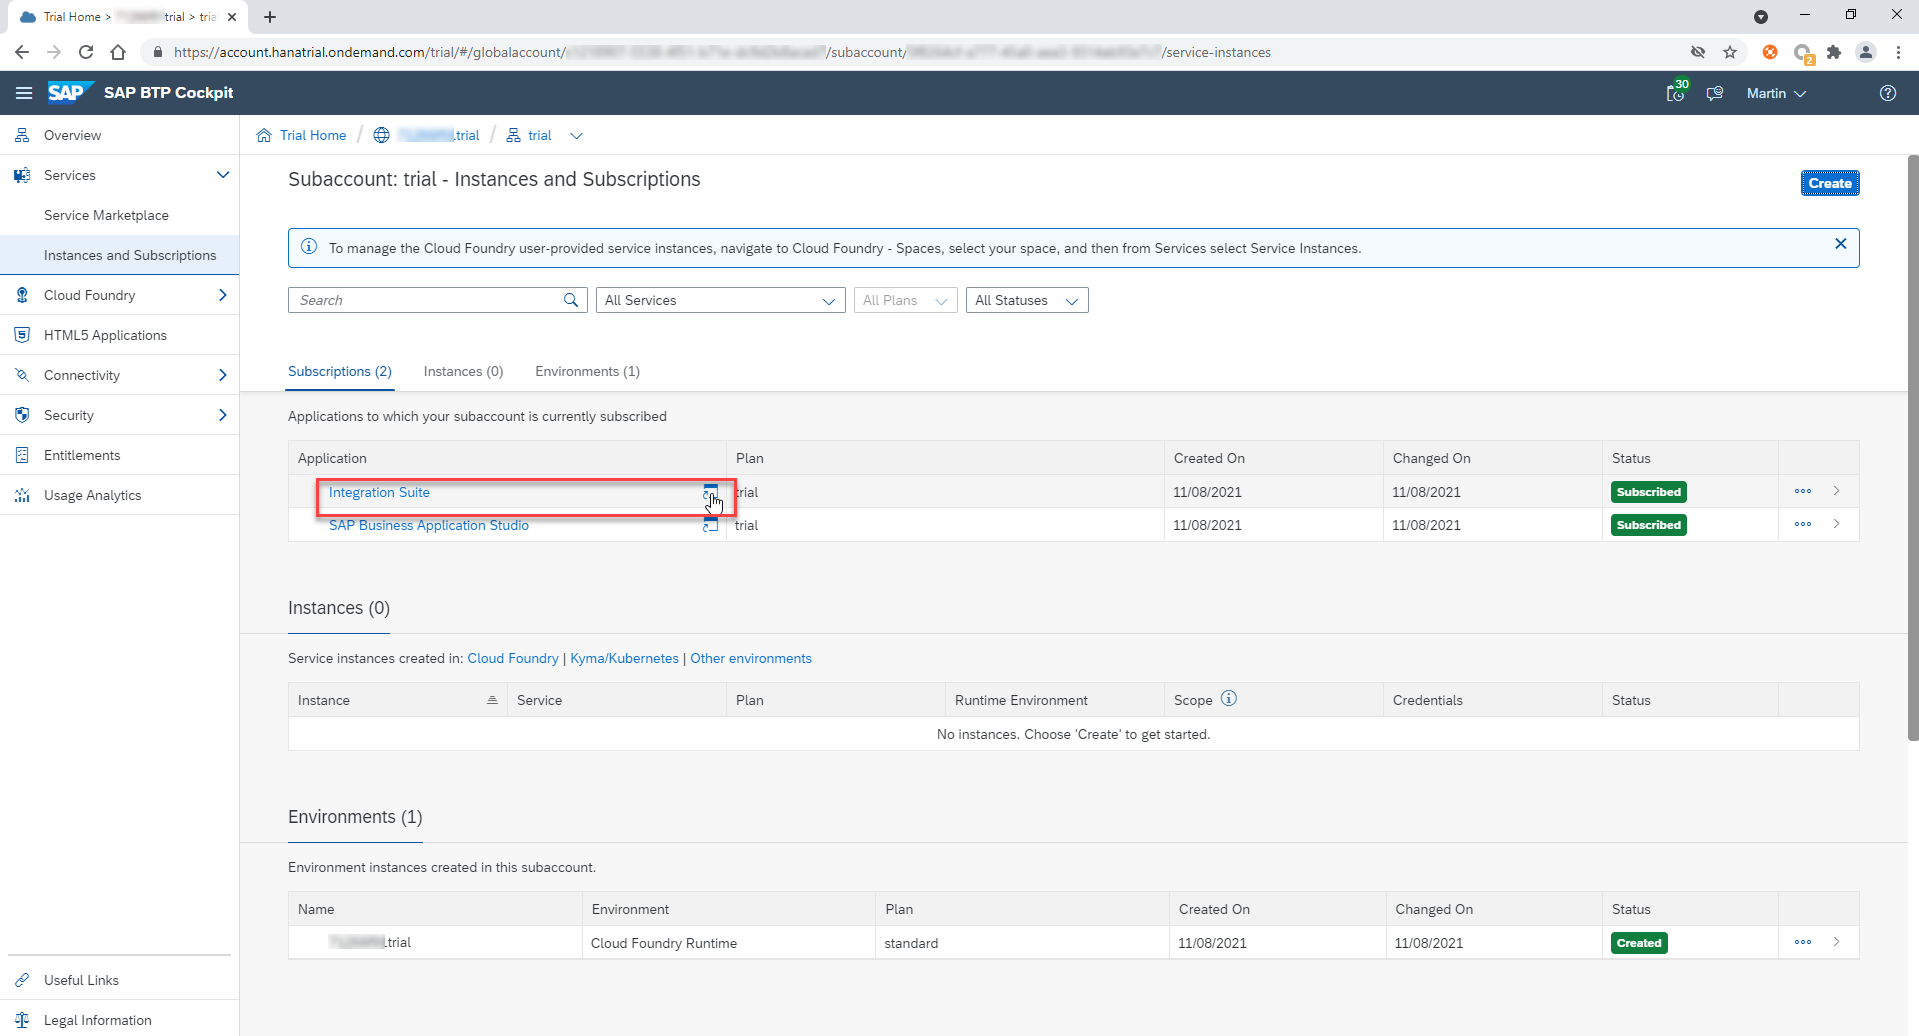
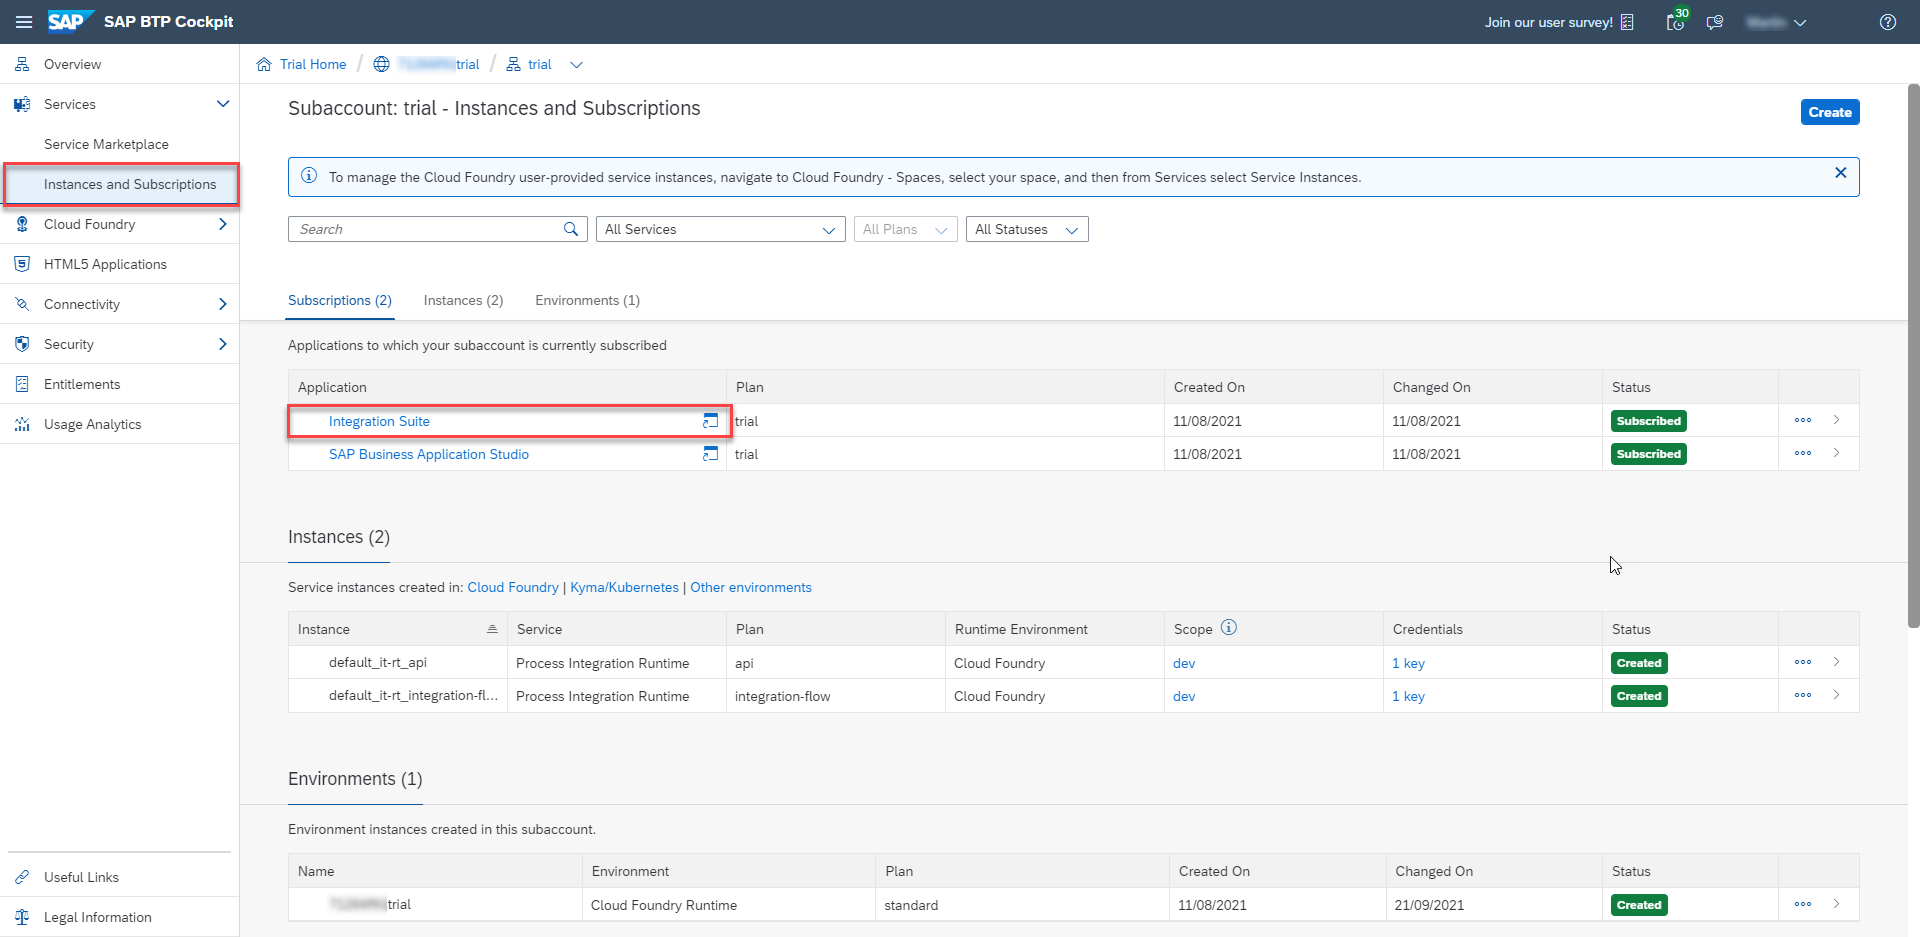
Minor changes

diff --git a/Week2/Unit3/README.md b/Week2/Unit3/README.md
@@ -17,7 +17,7 @@ From a service perspective, you'll be using a number of SAP BTP and Microsoft se
 
 ## Step 1 - Setup SAP Cloud Integration 
 
-[Week2 Unit3 - Step 1](Week2/Unit3/README.md#Step-1---Lorem-Ipsum)
+[Week2 Unit3 - Step 1](Week2/Unit3/README.md#Step-1---Setup-SAP-Cloud-Integration)
 
 Welcome to the third unit of Week 2. In the comprehensive exercise of this unit, you will build up an end-to-end scenario, which allows you to store billing documents from S/4HANA Cloud to your SharePoint team site. To achieve this scenario, you will make use of different SAP Integration Suite components like Cloud Integration and Open Connectors, as well as Microsoft tools like SharePoint and Azure.
 
@@ -93,12 +93,12 @@ Rename your document **welcome.docx** and click on **Rename**. The file name wil
 ![Microsoft SharePoint](./images/mss_0310.png)
 
 
-With this a SharePoint team site named General has been successfully created. 
+Congratulations! By finishing the first step, your SharePoint team site named General has been successfully created. 
 
 
 ## Step 2 - Create an Azure AD app registration
 
-[Week2 Unit3 - Step 2](Week2/Unit3/README.md#Step-2---Lorem-Ipsum)
+[Week2 Unit3 - Step 2](Week2/Unit3/README.md#Step-2---Create-an-Azure-AD-app-registration)
 
 For using the SharePoint connector from Open Connectors capability of SAP Business Technology Platform Integration Suite, you will need an OAuth key and Secret to connect to your SharePoint account. In this step, configurations required to connect to your SharePoint Online account are covered.
 
@@ -189,12 +189,12 @@ For connecting to your SharePoint Online account from SAP BTP Open Connectors, a
 ![Azure AD](./images/aar_0230.png)
 
 
-You have successfully configured your Azure AD for the usage with SAP Business Technology Platform Open Connectors. 
+Congratulations! You've successfully created an App Registration within Azure Active Directory, which contains the required permissions, to interact with your SharePoint teams site. 
 
 
 ## Step 3 - Configure Integration Suite Open Connectors
 
-[Week2 Unit1 - Step 5](Week2/Unit1/README.md#Step-5---Lorem-Ipsum)
+[Week2 Unit3 - Step 3](Week2/Unit3/README.md#Step-3---Configure-Integration-Suite-Open-Connectors)
 
 ### 3.1. Create an Open Connectors SharePoint connector
 
@@ -278,12 +278,12 @@ In the **Curl** subsection, please copy the values in the Authorization header, 
 ![Open Connectors](./images/ioc_0220.png)
 
 
-With this you have successfully created a SharePoint connector instance from Open Connectors capability of SAP Integration Suite. You will be able to use this connector instance in Cloud Integration to integrate data from SAP system to SharePoint or build an application connecting to your SharePoint account.
+Congratulations! With this step, you have successfully created a SharePoint connector instance from Open Connectors capability of SAP Integration Suite. You will be able to use this connector instance in Cloud Integration to integrate data from SAP system to SharePoint or build an application connecting to your SharePoint account.
 
 
 ## Step 4 - Check out SAP API Business Hub and fetch API Key
 
-[Week2 Unit1 - Step 6](Week2/Unit1/README.md#Step-6---Lorem-Ipsum)
+[Week2 Unit3 - Step 4](Week2/Unit3/README.md#Step-4---Check-out-SAP-API-Business-Hub-and-fetch-API-Key)
 
 The SAP API Business Hub is the central catalog of all SAP and partner APIs for developers to build sample apps, extensions and open integrations with SAP. In this tutorial, [Billing Document – Read, Cancel, GetPDF](https://api.sap.com/api/API_BILLING_DOCUMENT_SRV/resource) from SAP S/4HANA Cloud APIs has been used.
 
@@ -337,10 +337,12 @@ Select **Copy Key and Close** to copy this API Key. This API Key will be used fr
 ![API Business Hub](./images/sah_0080.png)
 
 
+Congratulations! You've learned how to navigate within and how to use the SAP API Business Hub in this step and you obtained an API key. This can be used in the following steps to call the S/4HANA Cloud Sandbox API provided by the API Business Hub.  
+
 
 ## Step 5 - Create your SharePoint Integration Flow
 
-[Week2 Unit1 - Step 7](Week2/Unit1/README.md#Step-7---Lorem-Ipsum)
+[Week2 Unit3 - Step 5](Week2/Unit3/README.md#Step-5---Create-your-SharePoint-Integration-Flow)
 
 ### 5.1. Open SAP Cloud Integration 
 
@@ -765,7 +767,7 @@ Congratulations! You've successfully deployed your first Integration Flow, which
 
 ## Step 6 - Review result in SharePoint
 
-[Week2 Unit1 - Step 8](Week2/Unit1/README.md#Step-8---Lorem-Ipsum)
+[Week2 Unit3 - Step 6](Week2/Unit3/README.md#Step-6---Review-result-in-SharePoint)
 
 ### 6.1. Check the uploaded document in SharePoint
 
@@ -790,6 +792,4 @@ https://blogs.sap.com/2020/09/29/blog-series-posting-documents-to-sharepoint/
 
 ## Summary
 
-Congratulations! You've successfully accomplished this unit's quite comprehensive exercise. You've learned how to configure and develop within two components of the SAP Integration Suite (Open Connectors & Cloud Integration). Furthermore you've implemented one approach, how these services can interact with Microsoft products like SharePoint. This concludes the exercise content of Week 2. 
-
-
+Congratulations! You've successfully accomplished this unit's quite comprehensive exercise. This also concludes the complete exercise content of Week 2. You've learned how to configure and develop within two components of the SAP Integration Suite (Open Connectors & Cloud Integration). Furthermore you've implemented one approach, how these services can interact with Microsoft products like SharePoint. 

diff --git a/Week2/Unit2/README.md b/Week2/Unit2/README.md
@@ -17,7 +17,7 @@ From a service perspective, you'll be using a number of SAP BTP and Microsoft se
 
 ## Step 1 - Subscribe to Integration Suite SaaS
 
-[Week2 Unit2 - Step 1](Week2/Unit2/README.md#Step-1---Lorem-Ipsum)
+[Week2 Unit2 - Step 1](Week2/Unit2/README.md#Step-1---Subscribe-to-Integration-Suite-SaaS)
 
 Welcome to the second unit of Week 2. In this first step, you will add an **Integration Suite Application Subscription** to your BTP subaccount. This will be the central entry point for all required Integration Suite components like Cloud Integration or Open Connectors.  
 
@@ -49,12 +49,12 @@ Check your **Integration Suite** subscription in the **Instances and Subscriptio
 
 ![Integration Suite](./images/iss_045.png)
 
-Congratiulations! You have successfully created an Integration Suite application subscription. In the next steps you will learn how to enable the different components of the Integration Suite and how to assign the required authorizations to your user. 
+Congratulations! You have successfully created an Integration Suite application subscription. In the next steps you will learn how to enable the different components of the Integration Suite and how to assign the required authorizations to your user. 
 
 
 ## Step 2 - Provision the required Integration Suite components 
 
-[Week2 Unit2 - Step 2](Week2/Unit2/README.md#Step-2---Lorem-Ipsum)
+[Week2 Unit2 - Step 2](Week2/Unit2/README.md#Step-2---Provision-the-required-Integration-Suite-components)
 
 In this step, you will use the **Integration Suite Provisioning** tool, to enable the required capabilities within your Integration Suite instance. This includes Cloud Integration and Open Connectors, which will be used in the subsequent steps and weeks of this course. 
 
@@ -107,12 +107,12 @@ From the Provisioning application you can navigate back to the **Integration Sui
 ![Integration Suite](./images/iss_125.png)
 
 
-Congratiulations! You have successfully provisioned the Integration Suite components. In the next step you will learn, how to assign your user the required authorizations, to access the various Integration Suite components. 
+Congratulations! You have successfully provisioned the Integration Suite components. In the next step you will learn, how to assign your user the required authorizations, to access the various Integration Suite components. 
 
 
 ## Step 3 - Assign roles and create service instances
 
-[Week2 Unit2 - Step 3](Week2/Unit2/README.md#Step-3---Lorem-Ipsum)
+[Week2 Unit2 - Step 3](Week2/Unit2/README.md#Step-3---Assign-roles-and-create-service-instances)
 
 In this step, you will execute a Booster that assigns your user the necessary roles to access the activated capabilities from Step 2. Furthermore, the Booster will create additional service instances like the **Process Integration Runtime**. This service instance defines, how the Process Integration Runtime service can be called from a remote component. In case of Cloud Integration, a service instance is an OAuth client. The service instance allows you to create Service Keys, containing credentials and other information, required to call integration flows.
 
